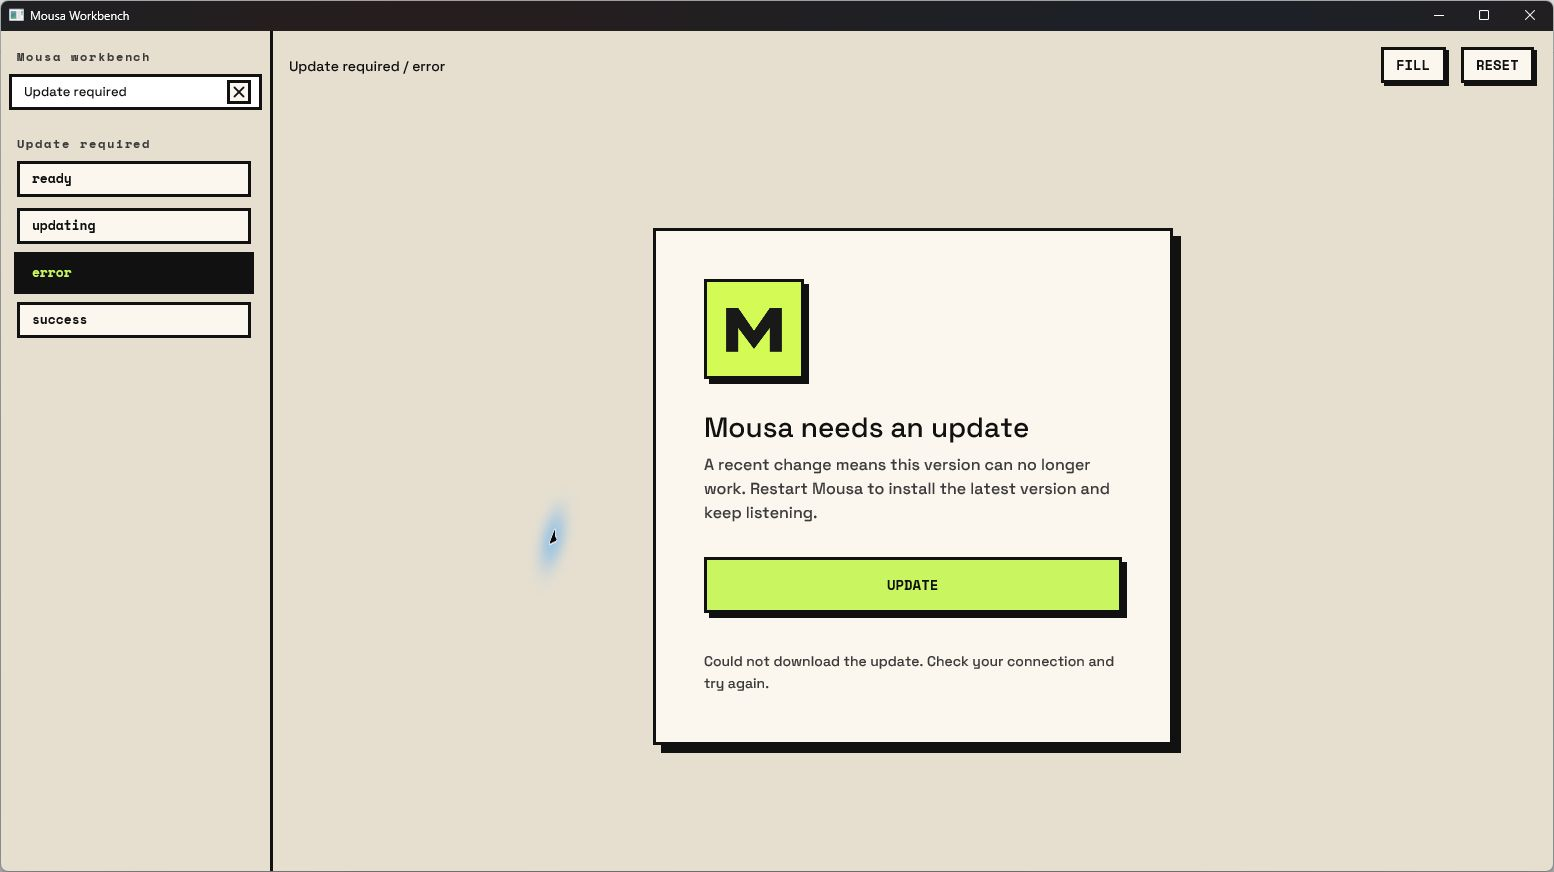
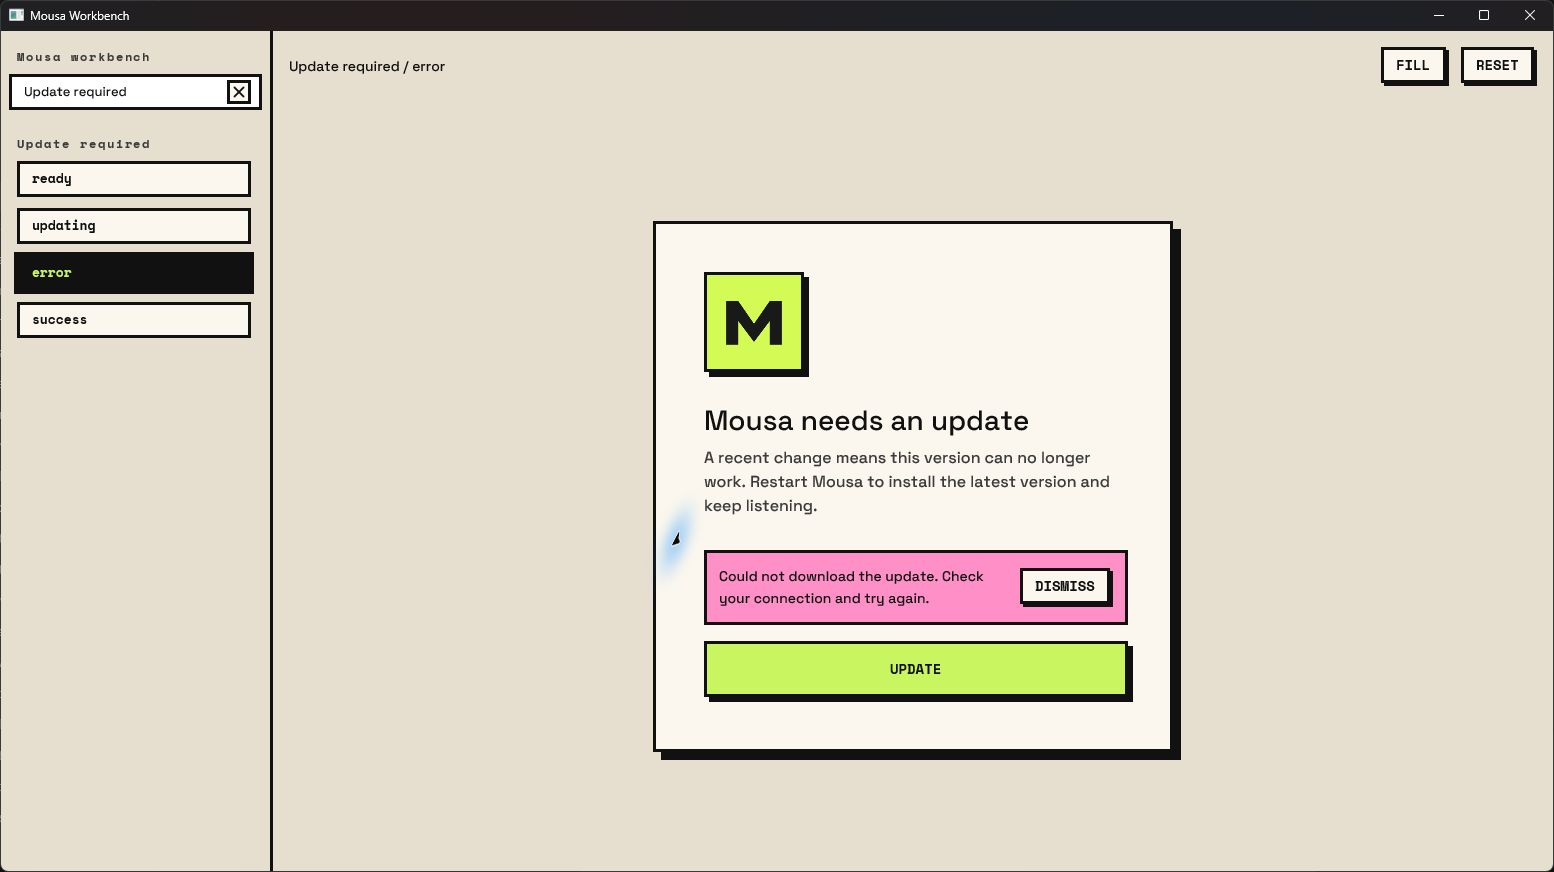
fix(storage): Show update failures in an error alert

diff --git a/src/update_required.rs b/src/update_required.rs
@@ -124,6 +124,7 @@ mod tests {
 }
 impl Render for UpdateRequired {
     fn render(&mut self, _: &mut Window, cx: &mut Context<Self>) -> impl IntoElement {
+        let content_width = landing::width() - landing::padding() * 2.;
         let action = if self.busy || self.complete {
             ui::disabled_button(if self.complete {
                 "RESTARTING…"
@@ -146,6 +147,17 @@ impl Render for UpdateRequired {
                 .on_click(cx.listener(|this, _, _, cx| this.update(cx)))
                 .into_any_element()
         };
+        let error = self.error.clone().map(|message| {
+            ui::error_alert(
+                message,
+                ui::button("dismiss-required-update-error", "DISMISS", color::surface()).on_click(
+                    cx.listener(|this, _, _, cx| {
+                        this.error = None;
+                        cx.notify();
+                    }),
+                ),
+            )
+        });
         div().size_full().bg(color::canvas()).text_color(color::ink())
             .font_family(font::SANS).font_weight(FontWeight::MEDIUM)
             .flex().items_center().justify_center().p(space::xxl())
@@ -159,7 +171,6 @@ impl Render for UpdateRequired {
                     .child(div().text_size(text::page_title()).line_height(relative(1.2)).child("Mousa needs an update"))
                     .child(div().text_size(crate::theme::update_required::body()).line_height(relative(1.5)).text_color(color::muted())
                         .child("A recent change means this version can no longer work. Restart Mousa to install the latest version and keep listening.")))
-                .child(action)
-                .when_some(self.error.clone(), |d, error| d.child(div().text_size(text::body()).text_color(color::muted()).child(error))))
+                .child(div().w(content_width).flex().flex_col().gap(space::lg()).children(error).child(action)))
     }
 }

diff --git a/DESIGN.md b/DESIGN.md
@@ -908,8 +908,9 @@ available updates. Center a 520px surface card with 48px padding, 3px outline an
 8px hard shadow on canvas. Reuse the 100px landing logo, 32px section gaps,
 28px page title with 1.2 line height and 16px muted supporting copy with 1.5 line height. The full-width
 lime Update button is 56px high with the 5px medium hard shadow. Preserve the mock's text. During download the
-button reads Updating… and is disabled; failures retain the card and show a
-retryable explanation. Successful installation automatically restarts the app.
+button reads Updating… and is disabled. Failures retain the card and show the
+shared pink error alert with Dismiss directly above the retryable Update action.
+Successful installation automatically restarts the app.
 Workbench previews simulate this flow without installing or restarting anything.
 Normal updates continue staging in the background for the next launch.
 
